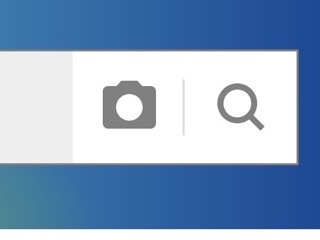
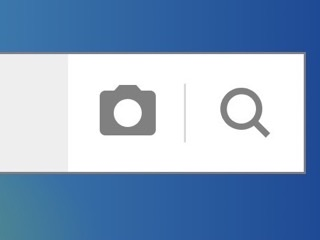
Snap It promo: fix thumbnail crop, clarify title, hide on desktop
Three follow-ups to the Highlights entry:

Thumbnail had a white strip along the bottom — the crop ran to y=360
but the gradient in the source ends at y=345. Re-cropped to 456x342,
which is exactly 4:3 and wholly inside the gradient.

Title now reads "Snap It: search by photo". "Snap It" alone doesn't say
what the card does, and the description can't carry that job here:
.explore-carousel hides card descriptions at <=580px, which is most of
the range where this card is shown at all. The description is still set
and does appear on tablets (580-1024px).

The card is dropped on desktop, matching the breakpoint that removes the
camera icon from the searchbox. Visual search needs a rear-facing camera,
so on a desktop the card only leads somewhere unusable. It's removed from
the DOM before Flickity initialises rather than hidden with CSS — Flickity
measures cells at init, so a display:none cell would leave a zero-width
slide and a dead frame when paging with wrapAround.

Verified at 375px (card first, description hidden), 768px (card first,
description shown) and 1280px (card absent, no zero-width cells).

diff --git a/client/lib/listeners/carousel.js b/client/lib/listeners/carousel.js
@@ -81,6 +81,23 @@ module.exports = ctx => {
     // can't work out why ctx is not defined on the explore page? but this seems safe to do.
     if (!ctx) ctx = { exploreCarousels: [] };
 
+    // Cells marked mobile-only (the Snap It promo) are dropped on desktop.
+    // Visual search needs a rear-facing camera, so the card would only lead
+    // somewhere unusable. Breakpoint matches the searchbox camera icon in
+    // components/_search.scss.
+    //
+    // Removed from the DOM rather than hidden with CSS: Flickity measures
+    // cells at init, so a display:none cell would still hold a zero-width
+    // slide and give a dead frame when paging with wrapAround. This runs
+    // before init, so Flickity never sees it. The trade-off is that
+    // resizing across the breakpoint won't add or remove the card until
+    // the next render — the SPA re-runs this on every home navigation.
+    if (window.matchMedia('(min-width: 64em)').matches) {
+      exploreCarouselel
+        .querySelectorAll('[data-mobile-only]')
+        .forEach(cell => cell.remove());
+    }
+
     ctx.exploreCarousels[index] = new Flickity(exploreCarouselel, {
       wrapAround: true,
       pageDots: false,

diff --git a/fixtures/data.js b/fixtures/data.js
@@ -182,10 +182,18 @@ module.exports = {
       collection: [
         {
           type: 'collection',
-          title: 'Snap It',
+          // The explanation has to live in the title: .explore-carousel
+          // hides card descriptions at <=580px (components/_carousel.scss),
+          // which is most of the range where this card is shown at all.
+          title: 'Snap It: search by photo',
+          description: 'Point your camera at an object to find something like it',
           alt: 'The Snap It search bar, showing the camera icon used to search by photo',
           figure: '/assets/img/home/collections/snapit.jpg',
-          link: '/scan'
+          link: '/scan',
+          // Camera-driven, so it's only offered where there's a usable
+          // rear-facing camera. Dropped from the carousel on desktop in
+          // client/lib/listeners/carousel.js.
+          mobileOnly: true
         },
         {
           type: 'collection',

diff --git a/templates/pages/home.html b/templates/pages/home.html
@@ -156,7 +156,7 @@
       </div>
       <div class="explore-carousel__flickity" aria-label="{{this.title}} carousel">
         {{#each this.collection}}
-        <div class="explore-carousel__cell">
+        <div class="explore-carousel__cell"{{#if this.mobileOnly}} data-mobile-only{{/if}}>
           <a href="{{ this.link }}" aria-label="{{ this.title }}">
             <article class="resultcard resultcard--dark {{#if type}}resultcard--{{ this.type }}{{/if}}">
               <figure class="resultcard__figure">
@@ -164,7 +164,7 @@
               </figure>
               <div class="resultcard__info">
                 <h3 class="resultcard__title">{{ this.title }}</h3>
-                <p class="resultcard__description">{{ this.description }}</p>
+                {{#if this.description}}<p class="resultcard__description">{{ this.description }}</p>{{/if}}
               </div>
             </article>
           </a>
